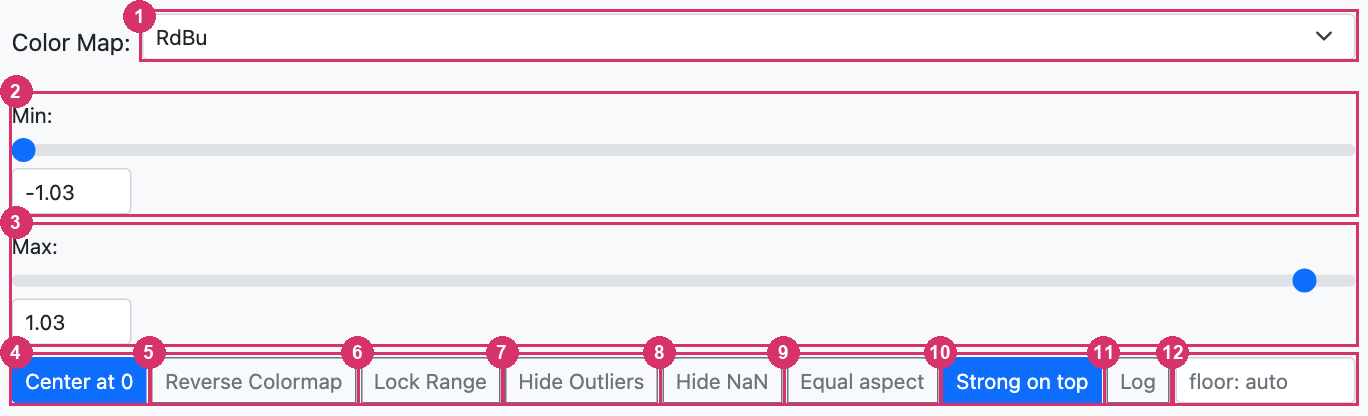
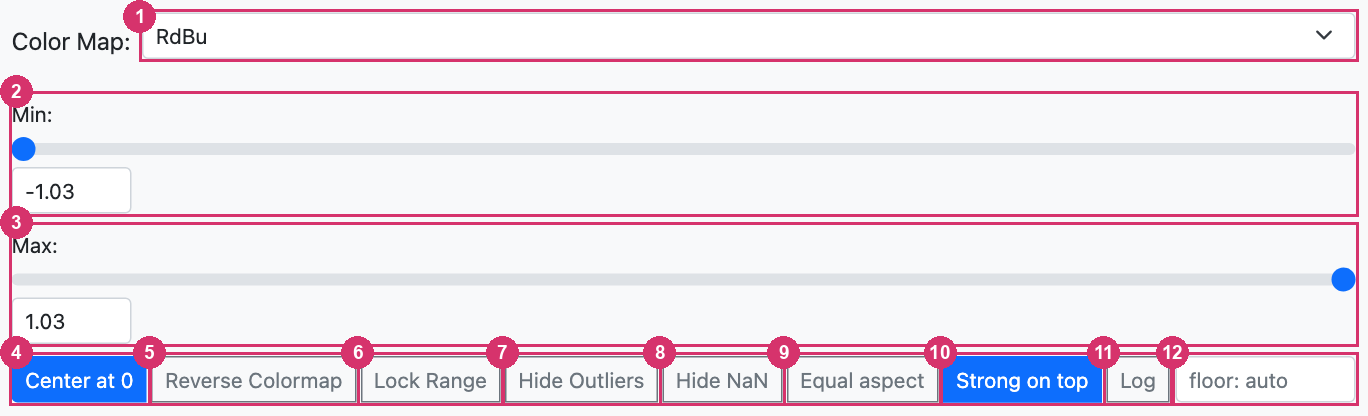
Per-value auto buttons; document automatic size and opacity
Each of size and opacity gets its own auto button in a .point-auto wrapper
after its number box (the controls-layout grid gives it a track). The
tooltips and docs say auto follows the points drawn, not the panel size.
Checked at DSF 1 on 95.6M (0.92 px / 0.16): the sparse clusters stay
visible, so the size is not floored.

Reshot plots-cell-controls.png and colour-controls.png; the other images
the plots/colour steps rewrite were reverted (pixel churn).

diff --git a/static/js/panels/plot-utilities/panel-ui-make.js b/static/js/panels/plot-utilities/panel-ui-make.js
@@ -150,15 +150,17 @@ export function createPanelStructure(container, id, settings) {
                 <input type="range" class="form-range" min="0" max="${SLIDER_STEPS}" step="1" value="${trackValue(pointSizeScale, settings.pointSize)}" id="point-size-${id}"
                        title="Marker size in px (log scale)" aria-label="Point size (log scale)">
                 <input type="number" class="form-control form-control-sm" min="0" step="any" value="${settings.pointSize}" id="point-size-input-${id}" title="Marker size in px">
+                <span class="point-auto"><button type="button" class="btn btn-sm btn-outline-secondary point-auto-btn" id="point-size-auto-${id}"
+                      title="Automatic size: follows the number of points drawn">auto</button></span>
               </div>
               <div class="point-opacity-control">
                 <label for="point-opacity-input-${id}">Opacity:</label>
                 <input type="range" class="form-range" min="0" max="${SLIDER_STEPS}" step="1" value="${trackValue(opacityScale, settings.pointOpacity)}" id="point-opacity-${id}"
                        title="Marker opacity (log scale)" aria-label="Point opacity (log scale)">
                 <input type="number" class="form-control form-control-sm" min="0" max="1" step="any" value="${settings.pointOpacity}" id="point-opacity-input-${id}" title="Marker opacity, 0 to 1">
+                <span class="point-auto"><button type="button" class="btn btn-sm btn-outline-secondary point-auto-btn" id="point-opacity-auto-${id}"
+                      title="Automatic opacity: follows the number of points drawn">auto</button></span>
               </div>
-              <button type="button" class="btn btn-sm btn-outline-secondary point-auto-btn" id="point-auto-${id}"
-                      title="Size and opacity follow the number of points drawn">auto</button>
             </div>
 
             <div class="color-range-controls" id="color-range-container-${id}" style="display:none;">

diff --git a/static/js/panels/plot-utilities/listeners.js b/static/js/panels/plot-utilities/listeners.js
@@ -200,7 +200,7 @@ export function setupPlotControlListeners(
     // one is rounded to two significant digits. The number box beside each
     // takes any value as typed (in px / alpha), also off the track's range.
     // Setting either one ends its automatic value (utils/point-style.js);
-    // the auto button brings both back.
+    // its auto button brings it back.
     const pointStyle = (name, key, autoKey, scale, valid) => {
       const $slider = $controlsContainer.find(`#${name}-${id}`);
       const $input = $controlsContainer.find(`#${name}-input-${id}`);
@@ -218,16 +218,15 @@ export function setupPlotControlListeners(
         showPointStyle(id, settings);
         redrawStyling();
       });
+      $controlsContainer.find(`#${name}-auto-${id}`).on('click', () => {
+        settings[autoKey] = true;
+        applyAutoPointStyle(settings, plotContainer._pointCount, pointStyleBase());
+        showPointStyle(id, settings);
+        redrawStyling();
+      });
     };
     pointStyle('point-size', 'pointSize', 'autoPointSize', pointSizeScale, (v) => v > 0);
     pointStyle('point-opacity', 'pointOpacity', 'autoPointOpacity', opacityScale, (v) => v > 0 && v <= 1);
-    $controlsContainer.find(`#point-auto-${id}`).on('click', () => {
-      settings.autoPointSize = true;
-      settings.autoPointOpacity = true;
-      applyAutoPointStyle(settings, plotContainer._pointCount, pointStyleBase());
-      showPointStyle(id, settings);
-      redrawStyling();
-    });
     
     // --- Hover columns: reload only those columns and relabel the traces ---
     const $hoverSelect = $controlsContainer.find(`#hover-columns-${id}`);

diff --git a/static/js/panels/plot-utilities/panel-ui-update.js b/static/js/panels/plot-utilities/panel-ui-update.js
@@ -710,16 +710,20 @@ export function updateColorControlsVisibility(container, colorType, id) {
  */
 export function showPointStyle(id, settings) {
   const show = (name, scale, value, auto, what) => {
-    const tip = auto ? `${what}: auto, follows the number of points drawn` : `${what} (set)`;
+    const tip = auto ? `${what}: auto, follows the number of points drawn (not the panel size)` : `${what} (set)`;
     const $slider = jQuery(`#${name}-${id}`);
     if ($slider.length) $slider.val(trackValue(scale, value)).attr('title', `${tip} (log scale)`);
     const $input = jQuery(`#${name}-input-${id}`);
     if ($input.length) $input.val(value).toggleClass('is-auto', !!auto).attr('title', tip);
+    const $auto = jQuery(`#${name}-auto-${id}`);
+    if ($auto.length) {
+      $auto.toggleClass('active', !!auto).attr('aria-pressed', String(!!auto)).attr('title', auto
+        ? `${what} is automatic: it follows the number of points drawn, not the panel size`
+        : `Make the ${what.toLowerCase()} automatic again: follow the number of points drawn`);
+    }
   };
-  show('point-size', pointSizeScale, settings.pointSize, settings.autoPointSize, 'Marker size in px');
+  show('point-size', pointSizeScale, settings.pointSize, settings.autoPointSize, 'Marker size');
   show('point-opacity', opacityScale, settings.pointOpacity, settings.autoPointOpacity, 'Marker opacity');
-  const $auto = jQuery(`#point-auto-${id}`);
-  if ($auto.length) $auto.toggleClass('active', !!(settings.autoPointSize && settings.autoPointOpacity));
 }
 
 /**

diff --git a/annzarro/tests/browser/test_slider_scales.py b/annzarro/tests/browser/test_slider_scales.py
@@ -271,13 +271,15 @@ def test_automatic_point_style(server):
             assert page.input_value(size_box) == "5"
             assert "is-auto" in page.get_attribute(size_box, "class")
             assert "auto" in page.get_attribute(size_box, "title")
-            assert "active" in page.get_attribute(f"#point-auto-{PID}", "class")
+            assert "active" in page.get_attribute(f"#point-size-auto-{PID}", "class")
+            assert "active" in page.get_attribute(f"#point-opacity-auto-{PID}", "class")
 
             _type(page, size_box, 2.5)
             assert _marker(page)["size"] == 2.5
             assert "is-auto" not in page.get_attribute(size_box, "class")
             assert "is-auto" in page.get_attribute(opacity_box, "class"), "opacity is still automatic"
-            assert "active" not in page.get_attribute(f"#point-auto-{PID}", "class")
+            assert "active" not in page.get_attribute(f"#point-size-auto-{PID}", "class")
+            assert "active" in page.get_attribute(f"#point-opacity-auto-{PID}", "class")
 
             # a refresh redraws (and recomputes automatic values): the user's size stays
             page.click(f"#refresh-plot-{PID}")
@@ -289,7 +291,7 @@ def test_automatic_point_style(server):
             assert (cfg["pointSize"], cfg["autoPointSize"]) == (2.5, False)
             assert (cfg["pointOpacity"], cfg["autoPointOpacity"]) == (1, True)
 
-            page.click(f"#point-auto-{PID}")
+            page.click(f"#point-size-auto-{PID}")
             page.wait_for_timeout(500)
             assert _marker(page)["size"] == 5
             assert "is-auto" in page.get_attribute(size_box, "class")

diff --git a/docs/user-guide/cell-and-gene-plots.md b/docs/user-guide/cell-and-gene-plots.md
@@ -34,6 +34,14 @@ Cell plot controls, coloured by a categorical obs column.
    stops at 0.2 px, below which WebGL draws a marker larger again, and opacity at 0.002, below
    which a point is not drawn at all (8-bit alpha). The boxes take any value, also outside the
    sliders' range.
+
+   Until you set them, both are **automatic**: they follow the number of points drawn (the
+   subset, or every cell; not the size of the panel), from the default 5 px and opaque at a few
+   thousand points down to 3 px / 0.61 at 100,000, 2 px / 0.39 at a million and 0.92 px / 0.16
+   at 95.6 million. An automatic value is shown in grey italics and changes when the number of
+   points does, for example when you turn the subset off. Moving a slider or typing a value sets it; it then stays
+   as set, in saved panel sets and links too. The **auto** button beside each box is highlighted
+   while its value is automatic; click it to make that value automatic again.
 10. **Color Palette** (categorical colour) or **Color Map** and range controls (numerical colour,
     {doc}`colour-scales`).
 11. **Hide NaN** removes the points whose colour value is missing (for a categorical colour, the

diff --git a/docs/reference/configuration.md b/docs/reference/configuration.md
@@ -97,7 +97,7 @@ Defaults sent to the browser through `/api/v1/config`.
 | Key | Default | Meaning |
 |---|---|---|
 | `enabled_panel_types` | `cell-plot`, `gene-plot`, `cell-table`, `gene-table` | Panel types offered in "Create New Panel". |
-| `defaults.point_size`, `defaults.point_opacity` | `5`, `1.0` | Initial marker size and opacity. |
+| `defaults.point_size`, `defaults.point_opacity` | `5`, `1.0` | Marker size and opacity for a few thousand points; with more points a panel's automatic values shrink from these (see Cell and gene plots). |
 | `defaults.color_scale` | `Portland` | Initial continuous colour scale. |
 | `defaults.max_cells`, `defaults.max_genes` | `1000000` | Client-side limits on the number of cells and genes. |
 | `defaults.taxonomy_id` | `9606` | NCBI taxonomy id for gene annotations (9606 human, 10090 mouse). |

diff --git a/docs/reference/deep-links.md b/docs/reference/deep-links.md
@@ -186,7 +186,9 @@ with `restoreLayout`. To pre-register a cell plot in a split, give its tile node
 
 Other fields (`pointSize`, `pointOpacity`, `colorScale`, `colorReversed`, `hoverInfo`,
 `highlightFocusedCell`, `tableFilter`, ...) are whatever the panel saved; copy them from a link
-the app produced rather than writing them from scratch.
+the app produced rather than writing them from scratch. A plot config without `pointSize` or
+`pointOpacity` gets automatic values that follow the number of points drawn; one with them keeps
+them (`autoPointSize: true` / `autoPointOpacity: true` mark a saved value as automatic).
 
 ## Why the fragment, and why compressed
 
